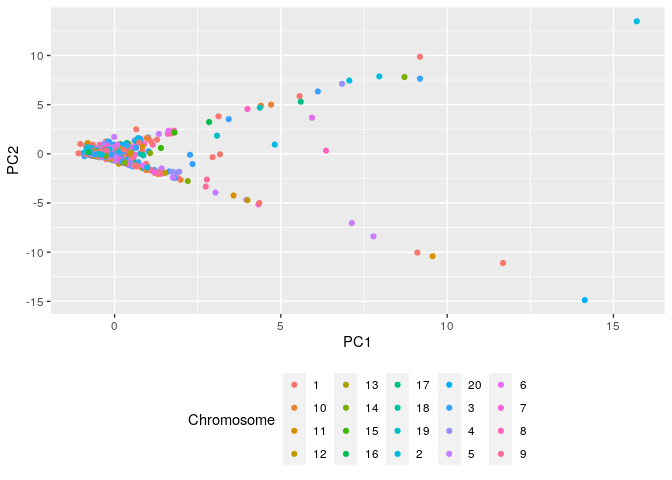
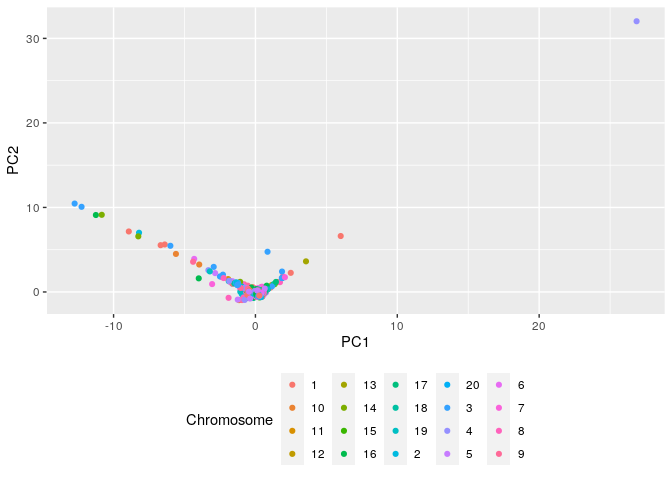
This was the graded version.

diff --git a/Presentation.md b/Presentation.md
@@ -380,7 +380,7 @@ BoxP <- FinalBPData %>%
 BoxP
 ```
 
-    ## Warning: Removed 165 rows containing non-finite values (stat_boxplot).
+    ## Warning: Removed 130 rows containing non-finite values (stat_boxplot).
 
 ![](Presentation_files/figure-gfm/Boxplot-1.png)<!-- -->
 
@@ -414,48 +414,57 @@ pcaRNA
 ```
 
     ## Standard deviations (1, .., p=8):
-    ## [1] 1.42842927 1.40139944 1.22834666 1.00916248 0.98776098 0.69754797 0.07418180
-    ## [8] 0.02602155
+    ## [1] 1.42636514 1.40882804 1.25315262 1.12388238 0.84854831 0.65142064 0.05106215
+    ## [8] 0.01387514
     ## 
     ## Rotation (n x k) = (8 x 8):
-    ##                                    PC1          PC2         PC3          PC4
-    ## FPKM(M).Rat                0.489434565 -0.505457336  0.05775037 -0.037717691
-    ## FPKM(F).Rat                0.489793804 -0.506254989  0.04354131 -0.035836844
-    ## log2(M/F ratio).Rat       -0.018968481  0.079905393  0.70140853  0.020931339
-    ## Padj.Rat                   0.004892378 -0.034274075 -0.70692944 -0.031714162
-    ## FPKM(M).Zebrafish          0.508391051  0.488929006 -0.03098876 -0.006429914
-    ## FPKM(F).Zebrafish          0.508495270  0.488651117 -0.03035157 -0.009063278
-    ## log2(M/F ratio).Zebrafish  0.055487646  0.007400222 -0.02643880  0.697858869
-    ## Padj.Zebrafish             0.008019960 -0.052658642 -0.02157223  0.713245189
-    ##                                    PC5          PC6           PC7           PC8
-    ## FPKM(M).Rat                0.004773761 -0.021190001  0.7068435529  0.0104568256
-    ## FPKM(F).Rat                0.006372452 -0.020704591 -0.7071481889 -0.0099970859
-    ## log2(M/F ratio).Rat        0.024833902 -0.707228777 -0.0072977385  0.0008707746
-    ## Padj.Rat                   0.023374091 -0.705303215  0.0068583745  0.0005656616
-    ## FPKM(M).Zebrafish         -0.036102548  0.010388738 -0.0101093233  0.7070868412
-    ## FPKM(F).Zebrafish         -0.040765143  0.008792863  0.0103299559 -0.7069677972
-    ## log2(M/F ratio).Zebrafish  0.713294624  0.018801738  0.0020696241 -0.0036521533
-    ## Padj.Zebrafish            -0.697867553 -0.030957865  0.0003829289  0.0010145259
+    ##                                   PC1         PC2         PC3          PC4
+    ## FPKM(M).Rat                0.44612854  0.54330405 -0.07569555  0.008660479
+    ## FPKM(F).Rat                0.44599334  0.54360788 -0.07396532  0.008596405
+    ## log2(M/F ratio).Rat       -0.06886474 -0.03917958 -0.70004221  0.068958249
+    ## Padj.Rat                   0.07925003  0.03385509  0.70069935 -0.031151887
+    ## FPKM(M).Zebrafish         -0.53872013  0.44750518  0.02713416 -0.083757726
+    ## FPKM(F).Zebrafish         -0.53715965  0.44620535  0.02518616 -0.107981135
+    ## log2(M/F ratio).Zebrafish -0.05058647  0.03982036  0.04152974  0.709794698
+    ## Padj.Zebrafish             0.09857731 -0.07539377 -0.06830306 -0.686761693
+    ##                                    PC5           PC6           PC7
+    ## FPKM(M).Rat                0.003429883  0.0008190427 -0.0002319107
+    ## FPKM(F).Rat                0.002693572  0.0018877765  0.0003442360
+    ## log2(M/F ratio).Rat       -0.004306439 -0.7063165530 -0.0021701723
+    ## Padj.Rat                  -0.029318035 -0.7069366132 -0.0020502598
+    ## FPKM(M).Zebrafish         -0.031904406 -0.0050004647 -0.7076193951
+    ## FPKM(F).Zebrafish         -0.031659688 -0.0098619091  0.7063754026
+    ## log2(M/F ratio).Zebrafish -0.699237810  0.0350841244  0.0125507381
+    ## Padj.Zebrafish            -0.712845808 -0.0003995106 -0.0119153565
+    ##                                     PC8
+    ## FPKM(M).Rat                7.070875e-01
+    ## FPKM(F).Rat               -7.071243e-01
+    ## log2(M/F ratio).Rat       -1.393847e-03
+    ## Padj.Rat                   3.385797e-04
+    ## FPKM(M).Zebrafish         -9.081741e-05
+    ## FPKM(F).Zebrafish          4.797254e-04
+    ## log2(M/F ratio).Zebrafish  4.277281e-04
+    ## Padj.Zebrafish             2.879153e-04
 
 ``` r
 #Rotated Data
 head(pcaRNA$x)
 ```
 
-    ##             PC1         PC2        PC3         PC4         PC5         PC6
-    ## [1,] -0.6772630  0.22044709  1.8556571  0.57578062  0.32249524  0.27837596
-    ## [2,] -0.4531157  0.13439955  2.3432048  0.20853980 -0.09670499  1.13212072
-    ## [3,]  0.7651956  0.02075016 -0.3622494  0.24071783  0.09877815 -0.13863859
-    ## [4,] -0.6659819  0.04626600 -0.5933611  0.04885803 -0.12735316  0.28514208
-    ## [5,] -0.5385563 -0.24809244 -0.2572355 -1.55807959 -1.74225071 -0.03410216
-    ## [6,] -0.8886820  0.13975003  1.1471253 -2.27986276 -2.55651635 -0.03682709
+    ##              PC1        PC2         PC3         PC4         PC5        PC6
+    ## [1,]  0.28206899 -0.3730228   0.3077228 -0.03572227 -0.13054190  0.1875871
+    ## [2,] -1.14823551 -0.9692571 -11.7560614  0.33928199  0.52803661  1.9840923
+    ## [3,] -6.39252703  5.6154874   0.4581066 -1.13754434 -0.63629705 -0.2542046
+    ## [4,]  0.02572288 -0.1836523   0.2555819 -0.16375486 -0.05759655 -0.2191567
+    ## [5,] -0.08961912 -0.5878721  -2.6945241  0.07957696  0.01783805 -0.5506958
+    ## [6,] -0.60651858  0.1993260  -0.1234450 -0.24002274 -0.07612138 -0.3684690
     ##               PC7          PC8
-    ## [1,] -0.004080608 0.0022096882
-    ## [2,]  0.013951596 0.0006430099
-    ## [3,] -0.011956318 0.0226432800
-    ## [4,]  0.011432803 0.0027124334
-    ## [5,] -0.008665128 0.0115989988
-    ## [6,] -0.007415273 0.0120166872
+    ## [1,] -0.003187944 -0.004067187
+    ## [2,]  0.015934264 -0.007763235
+    ## [3,] -0.199190487  0.013891870
+    ## [4,]  0.005753292 -0.001200586
+    ## [5,] -0.006525753 -0.005941069
+    ## [6,]  0.033628891 -0.003163800
 
 ``` r
 pcaRNA_data <- data.frame(pcaRNA$x, 
@@ -464,20 +473,20 @@ pcaRNA_data <- data.frame(pcaRNA$x,
 head(pcaRNA_data)
 ```
 
-    ##          PC1         PC2        PC3         PC4         PC5         PC6
-    ## 1 -0.6772630  0.22044709  1.8556571  0.57578062  0.32249524  0.27837596
-    ## 2 -0.4531157  0.13439955  2.3432048  0.20853980 -0.09670499  1.13212072
-    ## 3  0.7651956  0.02075016 -0.3622494  0.24071783  0.09877815 -0.13863859
-    ## 4 -0.6659819  0.04626600 -0.5933611  0.04885803 -0.12735316  0.28514208
-    ## 5 -0.5385563 -0.24809244 -0.2572355 -1.55807959 -1.74225071 -0.03410216
-    ## 6 -0.8886820  0.13975003  1.1471253 -2.27986276 -2.55651635 -0.03682709
+    ##           PC1        PC2         PC3         PC4         PC5        PC6
+    ## 1  0.28206899 -0.3730228   0.3077228 -0.03572227 -0.13054190  0.1875871
+    ## 2 -1.14823551 -0.9692571 -11.7560614  0.33928199  0.52803661  1.9840923
+    ## 3 -6.39252703  5.6154874   0.4581066 -1.13754434 -0.63629705 -0.2542046
+    ## 4  0.02572288 -0.1836523   0.2555819 -0.16375486 -0.05759655 -0.2191567
+    ## 5 -0.08961912 -0.5878721  -2.6945241  0.07957696  0.01783805 -0.5506958
+    ## 6 -0.60651858  0.1993260  -0.1234450 -0.24002274 -0.07612138 -0.3684690
     ##            PC7          PC8 Chromosome
-    ## 1 -0.004080608 0.0022096882          4
-    ## 2  0.013951596 0.0006430099          9
-    ## 3 -0.011956318 0.0226432800          2
-    ## 4  0.011432803 0.0027124334         10
-    ## 5 -0.008665128 0.0115989988         17
-    ## 6 -0.007415273 0.0120166872          2
+    ## 1 -0.003187944 -0.004067187         12
+    ## 2  0.015934264 -0.007763235         10
+    ## 3 -0.199190487  0.013891870          1
+    ## 4  0.005753292 -0.001200586          3
+    ## 5 -0.006525753 -0.005941069          5
+    ## 6  0.033628891 -0.003163800         11
 
 ``` r
 #Visualization
@@ -493,24 +502,33 @@ ggplot(pcaRNA_data, aes(x = PC1, y = PC2, color = Chromosome)) +
 pcaRNA$rotation
 ```
 
-    ##                                    PC1          PC2         PC3          PC4
-    ## FPKM(M).Rat                0.489434565 -0.505457336  0.05775037 -0.037717691
-    ## FPKM(F).Rat                0.489793804 -0.506254989  0.04354131 -0.035836844
-    ## log2(M/F ratio).Rat       -0.018968481  0.079905393  0.70140853  0.020931339
-    ## Padj.Rat                   0.004892378 -0.034274075 -0.70692944 -0.031714162
-    ## FPKM(M).Zebrafish          0.508391051  0.488929006 -0.03098876 -0.006429914
-    ## FPKM(F).Zebrafish          0.508495270  0.488651117 -0.03035157 -0.009063278
-    ## log2(M/F ratio).Zebrafish  0.055487646  0.007400222 -0.02643880  0.697858869
-    ## Padj.Zebrafish             0.008019960 -0.052658642 -0.02157223  0.713245189
-    ##                                    PC5          PC6           PC7           PC8
-    ## FPKM(M).Rat                0.004773761 -0.021190001  0.7068435529  0.0104568256
-    ## FPKM(F).Rat                0.006372452 -0.020704591 -0.7071481889 -0.0099970859
-    ## log2(M/F ratio).Rat        0.024833902 -0.707228777 -0.0072977385  0.0008707746
-    ## Padj.Rat                   0.023374091 -0.705303215  0.0068583745  0.0005656616
-    ## FPKM(M).Zebrafish         -0.036102548  0.010388738 -0.0101093233  0.7070868412
-    ## FPKM(F).Zebrafish         -0.040765143  0.008792863  0.0103299559 -0.7069677972
-    ## log2(M/F ratio).Zebrafish  0.713294624  0.018801738  0.0020696241 -0.0036521533
-    ## Padj.Zebrafish            -0.697867553 -0.030957865  0.0003829289  0.0010145259
+    ##                                   PC1         PC2         PC3          PC4
+    ## FPKM(M).Rat                0.44612854  0.54330405 -0.07569555  0.008660479
+    ## FPKM(F).Rat                0.44599334  0.54360788 -0.07396532  0.008596405
+    ## log2(M/F ratio).Rat       -0.06886474 -0.03917958 -0.70004221  0.068958249
+    ## Padj.Rat                   0.07925003  0.03385509  0.70069935 -0.031151887
+    ## FPKM(M).Zebrafish         -0.53872013  0.44750518  0.02713416 -0.083757726
+    ## FPKM(F).Zebrafish         -0.53715965  0.44620535  0.02518616 -0.107981135
+    ## log2(M/F ratio).Zebrafish -0.05058647  0.03982036  0.04152974  0.709794698
+    ## Padj.Zebrafish             0.09857731 -0.07539377 -0.06830306 -0.686761693
+    ##                                    PC5           PC6           PC7
+    ## FPKM(M).Rat                0.003429883  0.0008190427 -0.0002319107
+    ## FPKM(F).Rat                0.002693572  0.0018877765  0.0003442360
+    ## log2(M/F ratio).Rat       -0.004306439 -0.7063165530 -0.0021701723
+    ## Padj.Rat                  -0.029318035 -0.7069366132 -0.0020502598
+    ## FPKM(M).Zebrafish         -0.031904406 -0.0050004647 -0.7076193951
+    ## FPKM(F).Zebrafish         -0.031659688 -0.0098619091  0.7063754026
+    ## log2(M/F ratio).Zebrafish -0.699237810  0.0350841244  0.0125507381
+    ## Padj.Zebrafish            -0.712845808 -0.0003995106 -0.0119153565
+    ##                                     PC8
+    ## FPKM(M).Rat                7.070875e-01
+    ## FPKM(F).Rat               -7.071243e-01
+    ## log2(M/F ratio).Rat       -1.393847e-03
+    ## Padj.Rat                   3.385797e-04
+    ## FPKM(M).Zebrafish         -9.081741e-05
+    ## FPKM(F).Zebrafish          4.797254e-04
+    ## log2(M/F ratio).Zebrafish  4.277281e-04
+    ## Padj.Zebrafish             2.879153e-04
 
 ``` r
 rotation_data <- data.frame(pcaRNA$rotation, 
@@ -538,8 +556,8 @@ percent <- 100* (pcaRNA$sdev^2 / sum(pcaRNA$sdev^2))
 percent
 ```
 
-    ## [1] 25.505127306 24.549004766 18.860444101 12.730111425 12.195896973
-    ## [6]  6.082164671  0.068786745  0.008464012
+    ## [1] 25.431469064 24.809955403 19.629893575 15.788894977  9.000428001
+    ## [6]  5.304360702  0.032591785  0.002406494
 
 ``` r
 perc_data <- data.frame(percent = percent,
